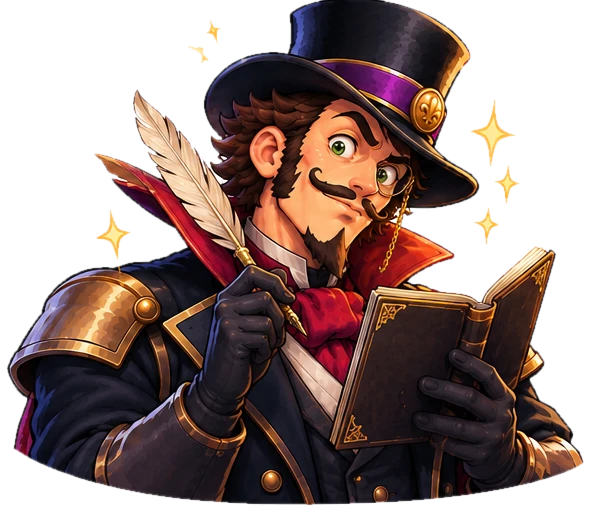
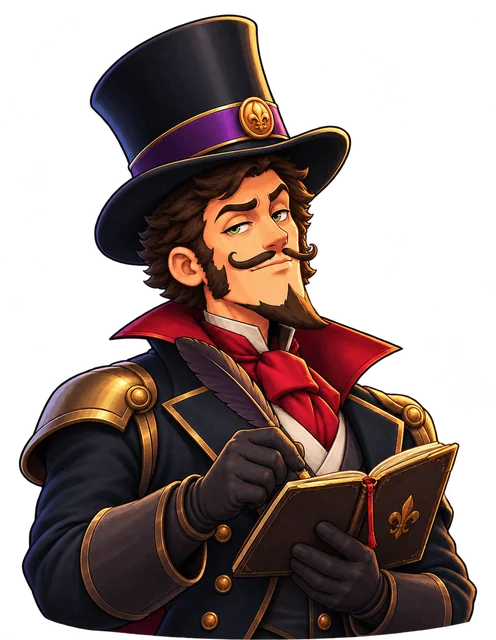
Eventos de Sir Edwards: imágenes nuevas de visita/racha rota y noche, frases pulidas (se retira «Imparable»)
Claude-Session: https://claude.ai/code/session_01D8YuskAoU39u1VrYjoDDvg

diff --git a/src/utils/sir-events.js b/src/utils/sir-events.js
@@ -46,65 +46,142 @@ const SEQSirEvents = (function () {
   // Los grupos normales no llevan `h`: así se pueden rotar con bolsa (ver `rotate`). Las frases ligadas a una hora exacta
   // viven en los grupos «raros» y se eligen al azar entre las válidas para la hora.
   var VISIT = [
-    '«Ah, tú por aquí. Qué casualidad tan bien planeada.»', '«No me hagas caso. Yo solo supervisaba.»',
-    '«Tomo notas. Tranquilo: la mayoría son favorables. Alguna.»', '«Un caballero siempre observa antes de opinar. Yo ya he opinado.»',
-    '«Estoy aquí solo por si necesitas un testigo.»', '«Sigue, sigue. Fingiré que no estoy mirando.»',
-    '«He visto cosas peores. También mejores. Hoy, de momento, ninguna de las dos.»', '«Qué concentración. Casi parece que te importa.»',
-    '«Pasaba por aquí. Es mentira, pero queda elegante.»', '«No te distraigas por mí. Hazlo por tu dignidad.»',
-    '«Mi libreta y yo seguimos en silencio. Es lo más amable que haremos hoy.»', '«Una respuesta sensata. Lo anoto como anomalía.»',
-    '«Todo en orden. No arruines mi informe.»', '«Sigues aquí. Yo también. Qué pareja tan poco prometedora.»',
-    '«Continúa. Todavía no me has decepcionado. Todavía.»'
+    '«Ah, tú por aquí. Qué casualidad tan convenientemente calculada.»',
+    '«No me hagas caso. Yo solo superviso.»',
+    '«Tomo notas. Tranquilo: algunas son incluso favorables.»',
+    '«Un caballero observa antes de opinar. Yo ya he opinado.»',
+    '«Estoy aquí por si necesitas un testigo.»',
+    '«Sigue, sigue. Fingiré que no estoy mirando.»',
+    '«He visto cosas peores. También mejores. Hoy aún no me decido.»',
+    '«Qué concentración. Casi parece que te importa.»',
+    '«Pasaba por aquí. Es mentira, pero queda elegante.»',
+    '«No te distraigas por mí. Hazlo por tu dignidad.»',
+    '«Mi libreta y yo guardamos silencio. Es lo más amable que sabemos ofrecerte.»',
+    '«Una respuesta sensata. Anotaremos la fecha.»',
+    '«Todo en orden. Intenta no estropear mi informe.»',
+    '«Sigues aquí. Yo también. Esto empieza a parecer una costumbre.»',
+    '«Continúa. Todavía no me has decepcionado. No arruinemos el momento.»'
   ];
-  var VISIT_RARE = ['«No tengo nada que añadir. Es preocupante.»', '«Si estás leyendo esto, deberías estar mirando la pregunta.»'];
+  var VISIT_RARE = [
+    '«No tengo nada que añadir. Francamente, me preocupa.»',
+    '«Si estás leyendo esto, deberías estar mirando la pregunta.»'
+  ];
   var STREAK_PHRASES = {
-    10: ['«Hmm... llevas unas cuantas.»', '«Eso empieza a parecer una racha.»', '«Bien. Muy bien.»', '«No parece que quieras fallar hoy.»',
-      '«Diez. Empiezo a tomarte en serio.»', '«Aciertas con una regularidad sospechosa.»',
-      '«Diez seguidas. Qué inesperadamente competente.»', '«Diez. Admito que esperaba el primer desastre antes.»', '«Esto ya parece deliberado.»', '«Diez aciertos. Seguiré fingiendo que no estoy impresionado.»'],
-    15: ['«Esto empieza a ponerse serio.»', '«¿Piensas parar en algún momento?»', '«Estoy empezando a preocuparme por tus respuestas.»', '«Curiosamente, todavía no has cometido ningún desastre.»',
-      '«Quince. Si fallas ahora, lo recordaré.»', '«Alguien se ha estudiado los apuntes.»',
-      '«Quince. Esto ya no parece casualidad.»', '«Quince seguidas. Empiezo a revisar mis notas.»', '«Quince. ¿Piensas dejarme sin críticas hoy?»', '«Quince. Muy bien. Ahora intenta no demostrar que fue suerte.»'],
-    20: ['«Veinte. Eso ya merece mi atención.»', '«Excelente racha. No la estropees ahora.»', '«Esto empieza a ser digno de un caballero.»', '«No quiero presionarte, pero... veinte.»',
-      '«Veinte sin fallar. Ya no me atrevo ni a pestañear.»', '«Mi libreta necesita una página nueva.»',
-      '«Veinte seguidas. Empiezo a reconsiderar algunas opiniones.»', '«Veinte. No quisiera decir “impresionante”, pero tampoco mentir.»', '«Veinte. Procura disfrutarlo discretamente.»'],
-    30: ['«Treinta. Bien. Ahora sí estoy impresionado.»', '«Esto ya no es suerte.»', '«Creo que acabamos de encontrar un problema para tus rivales.»', '«SirEdwards Imparable. Te lo has ganado.»',
-      '«Treinta. Voy a tener que retirar algunas de mis opiniones.»', '«Hay que ser muy valiente para seguir ahora.»',
-      '«Treinta. Esto ya no necesita comentarios. Y eso me molesta.»', '«Treinta. Mis felicitaciones. No las malgastes.»', '«Treinta aciertos. Admito que has sido impecable.»']
+    10: ['«Hmm... llevas unas cuantas.»',
+      '«Eso empieza a parecer una racha.»',
+      '«Bien. Muy bien. Me incomoda decirlo.»',
+      '«No parece que quieras fallar hoy.»',
+      '«Diez. Empiezo a tomarte en serio.»',
+      '«Qué regularidad. Casi parece un método.»',
+      '«Diez seguidas. Qué inesperadamente competente.»',
+      '«Diez. Admito que esperaba el primer desastre antes.»',
+      '«Esto empieza a ser incómodo para mis teorías.»',
+      '«Diez aciertos. Seguiré fingiendo que no estoy impresionado.»'],
+    15: ['«Esto empieza a ponerse serio.»',
+      '«¿Piensas parar en algún momento?»',
+      '«Estoy empezando a preocuparme por mis propias estadísticas.»',
+      '«Curiosamente, todavía no has cometido ningún desastre.»',
+      '«Quince. Si fallas ahora, lo recordaré.»',
+      '«Alguien se ha estudiado los apuntes.»',
+      '«Quince. Esto ya requiere cierta explicación.»',
+      '«Quince seguidas. Voy a revisar mis notas.»',
+      '«Quince. ¿Piensas dejarme sin críticas hoy?»',
+      '«Quince. Muy bien. Ahora intenta no convertirlo en una casualidad.»'],
+    20: ['«Veinte. Eso ya merece mi atención.»',
+      '«Excelente racha. No la estropees ahora.»',
+      '«Esto empieza a ser digno de un caballero.»',
+      '«No quiero presionarte, pero... veinte.»',
+      '«Veinte sin fallar. Ya casi me da miedo hablar.»',
+      '«Mi libreta necesita una página nueva.»',
+      '«Veinte seguidas. Empiezo a reconsiderar algunas opiniones.»',
+      '«Veinte. No quisiera decir “impresionante”. Pero sería mentira.»',
+      '«Veinte. Procura disfrutarlo discretamente.»',
+      '«Veinte. Esto empieza a ser personalmente incómodo.»'],
+    30: ['«Treinta. Bien. Ahora sí estoy impresionado.»',
+      '«Esto ya no es suerte.»',
+      '«Creo que acabamos de encontrar un problema para tus rivales.»',
+      '«Treinta. Voy a tener que retirar algunas de mis opiniones.»',
+      '«Hay que ser muy valiente para seguir ahora.»',
+      '«Treinta. Esto ya no necesita comentarios. Y eso me molesta.»',
+      '«Treinta. Mis felicitaciones. No las malgastes.»',
+      '«Treinta aciertos. Admito que has sido impecable.»',
+      '«Treinta. Empiezo a sospechar que sabes lo que haces.»',
+      '«Treinta. Qué inconveniente. Estaba disfrutando de subestimarte.»']
   };
+
   // Racha rota: {n} es la racha real que acaba de perder (la sustituye evaluate; la bolsa rota por tramos guarda la plantilla).
   var BROKEN_PHRASES = {
-    low: ['«{n} seguidas. Y entonces, esto. Lo he anotado.»', '«Qué racha tan breve. Y qué final tan innecesario.»', '«{n} aciertos y un tropiezo. Muy propio.»',
-      '«Y ahí se acabó. Con {n} no se presume, pero se pierde igual.»', '«Era una buena racha. Para ser tuya.»',
-      '«{n} seguidas, tirado por la borda con elegancia.»', '«Lo estabas haciendo bien. Qué descuido tan puntual.»', '«Un fallo a tiempo. Qué considerado: así no te acostumbras.»'],
-    mid: ['«{n} de racha tirados por una sola pregunta. Elegante, a su manera.»', '«{n}. Y ahora cero. Las matemáticas no perdonan.»',
-      '«Qué lástima. Iba a decir algo agradable, y ya no.»', '«{n} aciertos seguidos y una sola pregunta para destruirlos. Admirable economía.»',
-      '«Lo he visto. Todos lo hemos visto. Yo, sobre todo.»', '«Así termina una racha: sin avisar y con público.»',
-      '«{n}. Hubiera preferido no tener que comentar esto.»', '«Ni siquiera yo esperaba que fallaras justo ahora. Mentira: sí.»'],
-    high: ['«{n}. {n}, y ahora esto. Qué manera tan cuidadosa de arruinarlo.»', '«{n} seguidas. Y una sola respuesta para recordarte que eres humano.»',
-      '«Hubo {n}. Habrá que repasar qué pasó en la siguiente. Aunque creo saberlo.»', '«{n} aciertos y un final de telenovela.»',
-      '«Mi libreta guardará {n} aciertos. Y esta pregunta. Sobre todo esta pregunta.»', '«Una racha de {n} merece un funeral. Estoy pensando en la música.»',
-      '«{n}... y ahora el silencio. Lo siento. No tanto como crees.»', '«Casi pude respetarte. {n} seguidas. Casi.»']
+    low: ['«{n} seguidas. Y entonces ocurrió esto. Qué oportuno.»',
+      '«Qué racha tan prometedora. Qué final tan innecesario.»',
+      '«{n} aciertos y un tropiezo. Siempre hay una primera decepción.»',
+      '«Y ahí terminó. {n} no está nada mal. Este final sí.»',
+      '«Era una buena racha. Para ser tuya.»',
+      '«{n} seguidas, sacrificadas por una sola pregunta. Admirable.»',
+      '«Lo estabas haciendo bien. Qué descuido tan puntual.»',
+      '«Un fallo a tiempo. Qué considerado: así no te creces.»'],
+    mid: ['«{n} seguidas. Todo eso, derrotado por una sola pregunta.»',
+      '«{n}. Y ahora cero. Las matemáticas tienen un sentido del humor peculiar.»',
+      '«Qué lástima. Iba a felicitarte.»',
+      '«{n} aciertos seguidos y una pregunta para echarlo todo a perder. Eficiencia admirable.»',
+      '«Lo he visto. Tú también. Podemos fingir que no ha pasado.»',
+      '«Así termina una racha: sin avisar y con público.»',
+      '«{n}. Hubiera preferido no tener que escribir esto.»',
+      '«Ni siquiera yo esperaba ese fallo. Bueno... quizá un poco.»'],
+    high: ['«{n} seguidas. Qué manera tan meticulosa de arruinarlo.»',
+      '«{n} seguidas. Y una sola respuesta para recordarte que eres humano.»',
+      '«Hubo {n}. Habrá que estudiar este inesperado desenlace.»',
+      '«{n} aciertos y un final para el archivo. Sección: tragedias.»',
+      '«Mi expediente conservará esos {n} aciertos. Y esta pregunta. Especialmente esta pregunta.»',
+      '«Una racha de {n} merece un pequeño funeral. Sin flores, por supuesto.»',
+      '«{n}... y ahora el silencio. Un momento precioso.»',
+      '«Casi pude respetarte. {n} seguidas. Casi.»']
   };
+
   var DAY = [
-    '«Buenos días. Veamos qué estás tramando.»', '«Una mañana prometedora. No la estropees.»', '«Ya despierto y haciendo preguntas. Admirable.»',
-    '«El día acaba de empezar. Procura no decepcionarme demasiado pronto.»', '«Un poco de cultura antes del desayuno. Excelente decisión.»',
-    '«He decidido madrugar. Tú también, aparentemente.»', '«Buenos días. Espero que tu cerebro haya llegado antes que tú.»',
+    '«Buenos días. Veamos qué estás tramando.»',
+    '«Una mañana prometedora. Procura no estropearla.»',
+    '«Ya despierto y haciendo preguntas. Admirable.»',
+    '«El día acaba de empezar. No me decepciones tan pronto.»',
+    '«Cultura antes del desayuno. Una decisión respetable.»',
+    '«He decidido madrugar. Tú también, aparentemente.»',
+    '«Buenos días. Espero que tu cerebro haya llegado antes que tú.»',
     '«A estas horas hasta las malas decisiones parecen razonables.»',
-    '«Madrugador. Sospechoso, pero encomiable.»', '«Café, luz y preguntas. Una combinación peligrosa para tu ego.»',
-    '«El mundo todavía se despereza y tú ya estás en plena faena.»', '«Una mente despierta a primera hora. Qué desconcertante.»',
-    '«Cultura antes del mediodía. Los demás aún buscan las zapatillas.»', '«A estas horas, hasta mi paciencia está recién planchada.»',
-    '«Buenos días. Qué manera tan innecesaria de empezar el día.»', '«Madrugando para demostrar conocimientos. Cada cual con sus aficiones.»', '«El día apenas empieza y ya estás buscando respuestas.»'
+    '«Madrugador. Inquietante, pero encomiable.»',
+    '«Café, luz y preguntas. Una combinación peligrosa para tu ego.»',
+    '«El mundo todavía se despereza y tú ya estás aquí.»',
+    '«Una mente despierta a primera hora. Qué desconcertante.»',
+    '«Mientras los demás buscan las zapatillas, tú buscas respuestas.»',
+    '«A estas horas, hasta mi paciencia está recién planchada.»',
+    '«Buenos días. Qué manera tan innecesariamente productiva de empezar el día.»',
+    '«Madrugando para demostrar conocimientos. Cada cual con sus aficiones.»',
+    '«El día apenas empieza y ya aspiras a tener razón. Ambicioso.»'
   ];
   var DAY_RARE = [{ t: '«Son las siete de la mañana y ya estoy supervisando tu rendimiento. Qué vida tan plena.»', h: [7] }];
-  var NIGHT_EARLY = ['«Buenas noches... supongo.»', '«¿Todavía jugando?»', '«Veo que la noche te ha dado conocimientos.»', '«Una partida nocturna. Excelente decisión cuestionable.»', // 00:00–02:00
-    '«Pasada la medianoche, la mente rinde... o eso dicen.»', '«La noche es joven. Tu criterio, quizá menos.»', '«Medianoche y todavía respondiendo. Qué disciplina tan discutible.»',
-    '«Mañana habrá que madrugar, pero tú sabrás.»', '«Otra pregunta antes de dormir. Cómo no.»',
-    '«A estas horas incluso las buenas ideas parecen malas. Veremos las tuyas.»', '«La noche avanza. Tu sentido común, aparentemente, no.»', '«Ya es mañana. Tú sigues aquí. Admirable o preocupante.»'];
-  var NIGHT_LATE = [                                                                                                                              // 02:00–04:00
-    '«¿Dormir? No. ¿Otra partida? Evidentemente.»', '«A estas horas solo quedan los valientes y los insensatos.»', '«No preguntaré por qué sigues despierto.»',
-    '«He venido a comprobar que no soy el único.»', '«A estas horas la cultura general es un acto de rebeldía.»',
-    '«Las mejores ideas llegan de madrugada. Las peores, también.»', '«Ya no es tarde, es temprano. Y sigues aquí.»',
-    '«Tu almohada debe de sentirse bastante ofendida.»', '«La madrugada: donde la lucidez y el insomnio se dan la mano.»',
-    '«Sigues despierto. Empiezo a sospechar que esto es deliberado.»'
+  var NIGHT_EARLY = [
+    '«Buenas noches... supongo.»',
+    '«¿Todavía jugando? Admirable falta de prudencia.»',
+    '«Veo que la noche te ha dado conocimientos. O confianza.»',
+    '«Una partida nocturna. Excelente decisión cuestionable.»',
+    '«Pasada la medianoche, la mente rinde... o eso dicen.»',
+    '«La noche es joven. Tu criterio, quizá menos.»',
+    '«Medianoche y todavía respondiendo. Qué disciplina tan discutible.»',
+    '«Mañana habrá que madrugar. Pero eso será problema de tu yo futuro.»',
+    '«Otra pregunta antes de dormir. Naturalmente.»',
+    '«A estas horas incluso las buenas ideas parecen malas. Veremos las tuyas.»',
+    '«La noche avanza. Tu sentido común, aparentemente, no.»',
+    '«Ya es mañana. Tú sigues aquí. Admirable o preocupante.»'
+  ];
+  var NIGHT_LATE = [
+    '«¿Dormir? No. ¿Otra partida? Evidentemente.»',
+    '«A estas horas solo quedan los valientes y los insensatos.»',
+    '«No preguntaré por qué sigues despierto. Tengo cierta dignidad.»',
+    '«He venido a comprobar que no soy el único.»',
+    '«A estas horas, la cultura general es un acto de rebeldía.»',
+    '«Las mejores ideas llegan de madrugada. Las peores también.»',
+    '«Ya no es tarde. Es temprano. Y sigues aquí.»',
+    '«Tu almohada debe de sentirse bastante ofendida.»',
+    '«La madrugada: donde la lucidez y el insomnio se dan la mano.»',
+    '«Sigues despierto. Ya no sé quién vigila a quién.»'
   ];
   var NIGHT_RARE = [{ t: '«03:17. La hora exacta en la que normalmente tomo decisiones cuestionables.»', h: [3] },
     { t: '«Son las tres de la mañana. Esto ya es personal.»', h: [3] }];

diff --git a/sw.js b/sw.js
@@ -393,9 +393,9 @@ const ASSET_REVS = {
   './assets/cats/historia.webp': '255dac0e',
   './assets/character/defeat.webp': 'd4895852',
   './assets/character/event_siredwards_day.webp': '8cacefd5',
-  './assets/character/event_siredwards_night.webp': '9780ad2a',
+  './assets/character/event_siredwards_night.webp': 'f50f1203',
   './assets/character/event_siredwards_streak.webp': 'f43c5ebd',
-  './assets/character/event_siredwards_visit.webp': '6e6d5168',
+  './assets/character/event_siredwards_visit.webp': '6df39c1c',
   './assets/character/hat.webp': '89336d1f',
   './assets/character/hito-barbilla.webp': '10eabc42',
   './assets/character/hito-manos.webp': '3f46e800',
